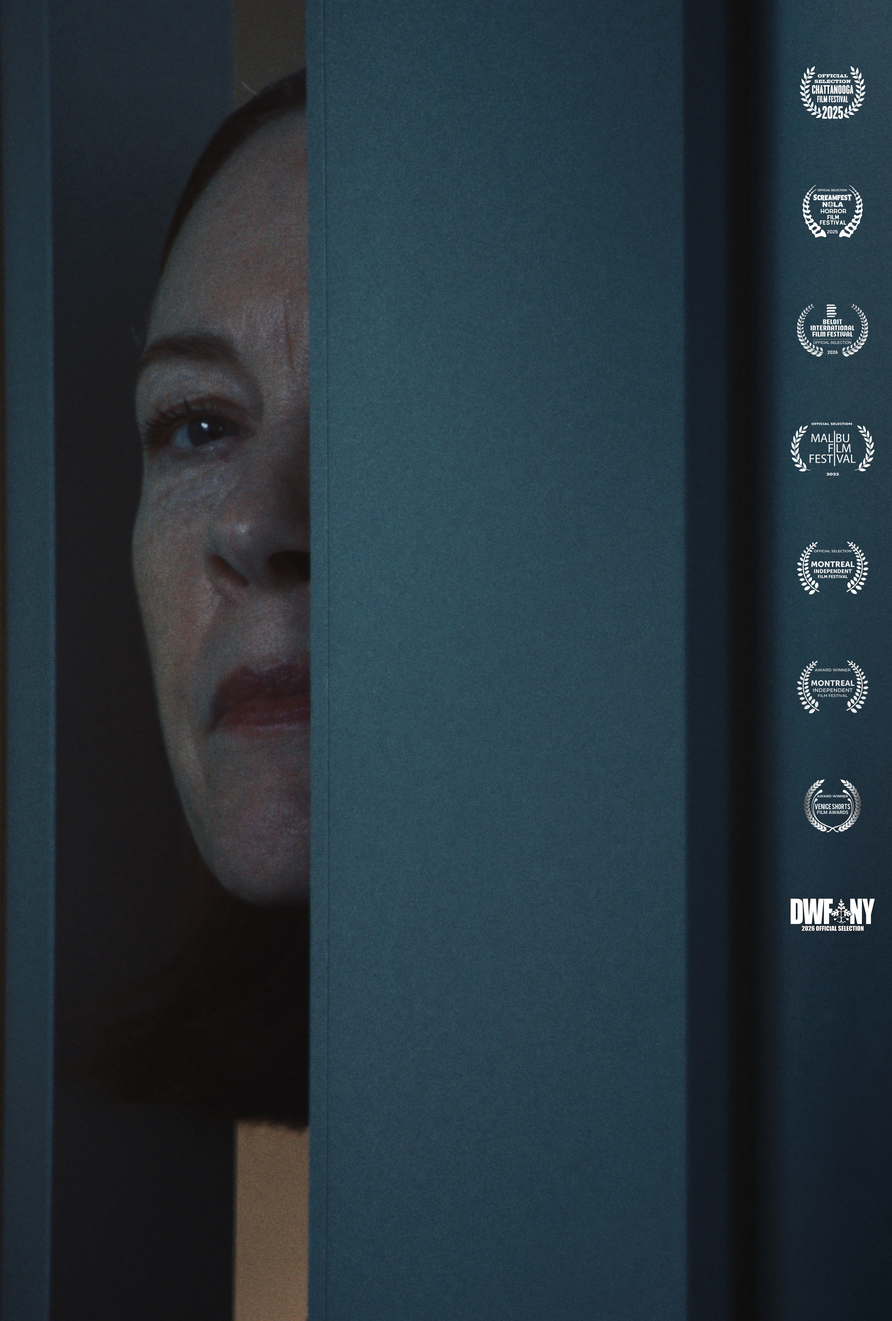
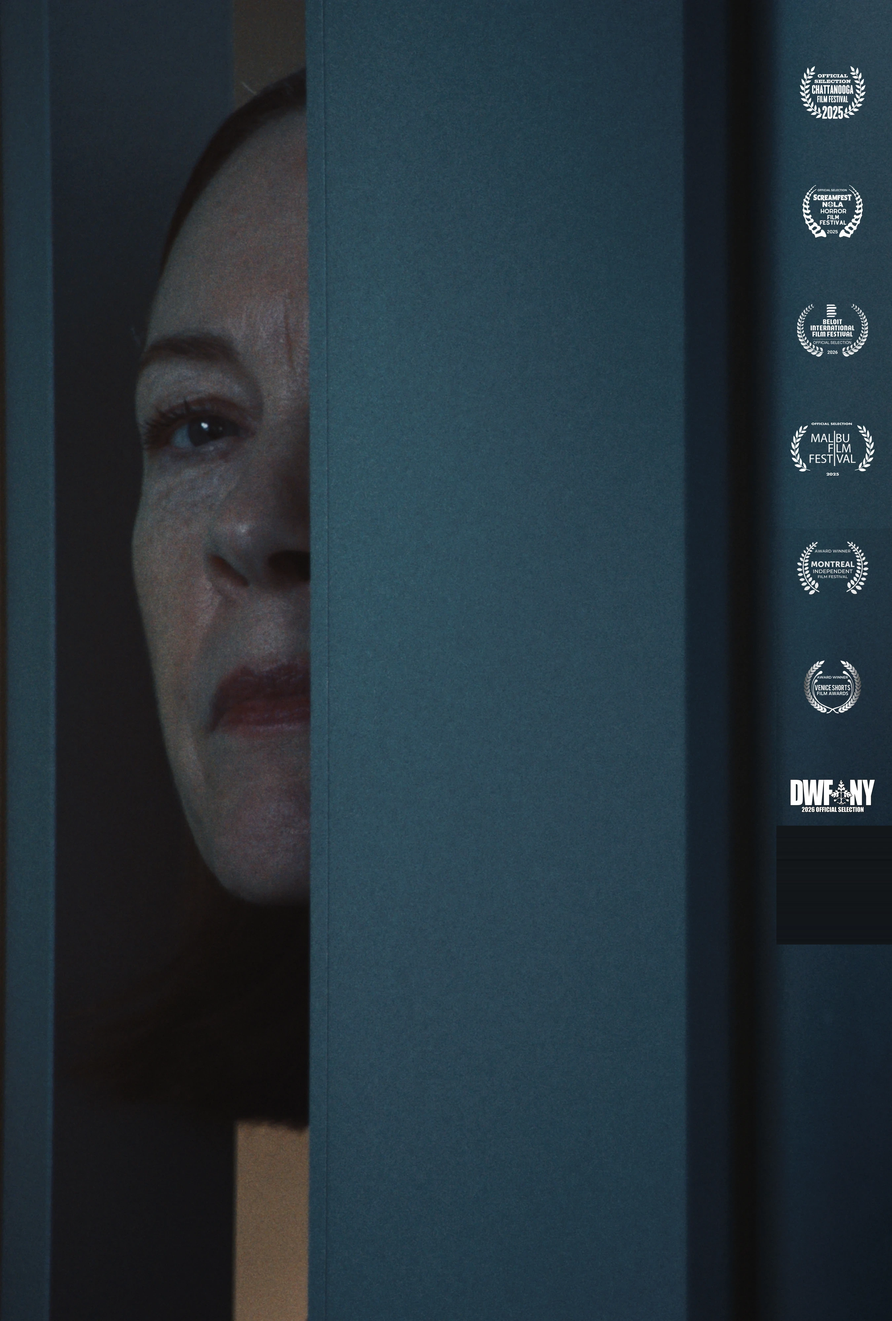
Center featured buttons, fix nav dropdown stickiness, remove duplicate Montreal laurel
- Center .featured-buttons with justify-content: center
- Add dropdown-disabled class with pointer-events:none to prevent hover re-triggering after nav clicks
- Remove duplicate Montreal "Official Selection" laurel from both poster images (kept "Award Winner")
- Add cache busters to poster image references

Changed region(s): [[0.8711, 0.5, 1.0, 0.7188], [0.9022, 0.4062, 0.9644, 0.4375]]

diff --git a/index.html b/index.html
@@ -174,6 +174,16 @@
       opacity: 1;
       visibility: visible;
     }
+
+    .nav-item.dropdown-disabled,
+    .nav-item.dropdown-disabled .dropdown {
+      pointer-events: none;
+    }
+
+    .nav-item.dropdown-disabled .dropdown {
+      opacity: 0 !important;
+      visibility: hidden !important;
+    }
     
     .dropdown a {
       display: block;
@@ -714,6 +724,7 @@
       gap: 16px;
       flex-wrap: wrap;
       padding-top: 8px;
+      justify-content: center;
     }
 
     .laurels {
@@ -2173,8 +2184,8 @@
       <div class="container">
         <div class="featured-grid">
           <div class="poster-wrap" onclick="showPage('hr')" id="featured-poster">
-            <img src="/images/Website_v5_Peering_C_Spread.webp" alt="Human Resource - Peering" class="poster-rotate active">
-            <img src="/images/Website_v5_Desktop_Top.webp" alt="Human Resource - Desktop" class="poster-rotate">
+            <img src="/images/Website_v5_Peering_C_Spread.webp?v=2" alt="Human Resource - Peering" class="poster-rotate active">
+            <img src="/images/Website_v5_Desktop_Top.webp?v=2" alt="Human Resource - Desktop" class="poster-rotate">
           </div>
           <div class="featured-info">
             <div class="featured-top">
@@ -2551,6 +2562,12 @@
       window.scrollTo(0, 0);
       document.querySelector('nav').classList.remove('scrolled');
 
+      // Close nav dropdown
+      var dd = document.querySelector('.dropdown');
+      var ni = document.querySelector('.nav-item');
+      if (dd) dd.classList.remove('open');
+      if (ni) { ni.classList.add('dropdown-disabled'); setTimeout(function() { ni.classList.remove('dropdown-disabled'); }, 1000); }
+
       // Push to browser history so Back button works
       if (pushState) {
         if (id !== 'home') {
@@ -2624,7 +2641,11 @@
 
       // Close dropdown when a dropdown link is clicked
       dropdown.querySelectorAll('a').forEach(link => {
-        link.addEventListener('click', () => dropdown.classList.remove('open'));
+        link.addEventListener('click', () => {
+          dropdown.classList.remove('open');
+          navItem.classList.add('dropdown-disabled');
+          setTimeout(() => navItem.classList.remove('dropdown-disabled'), 1000);
+        });
       });
     })();
 
